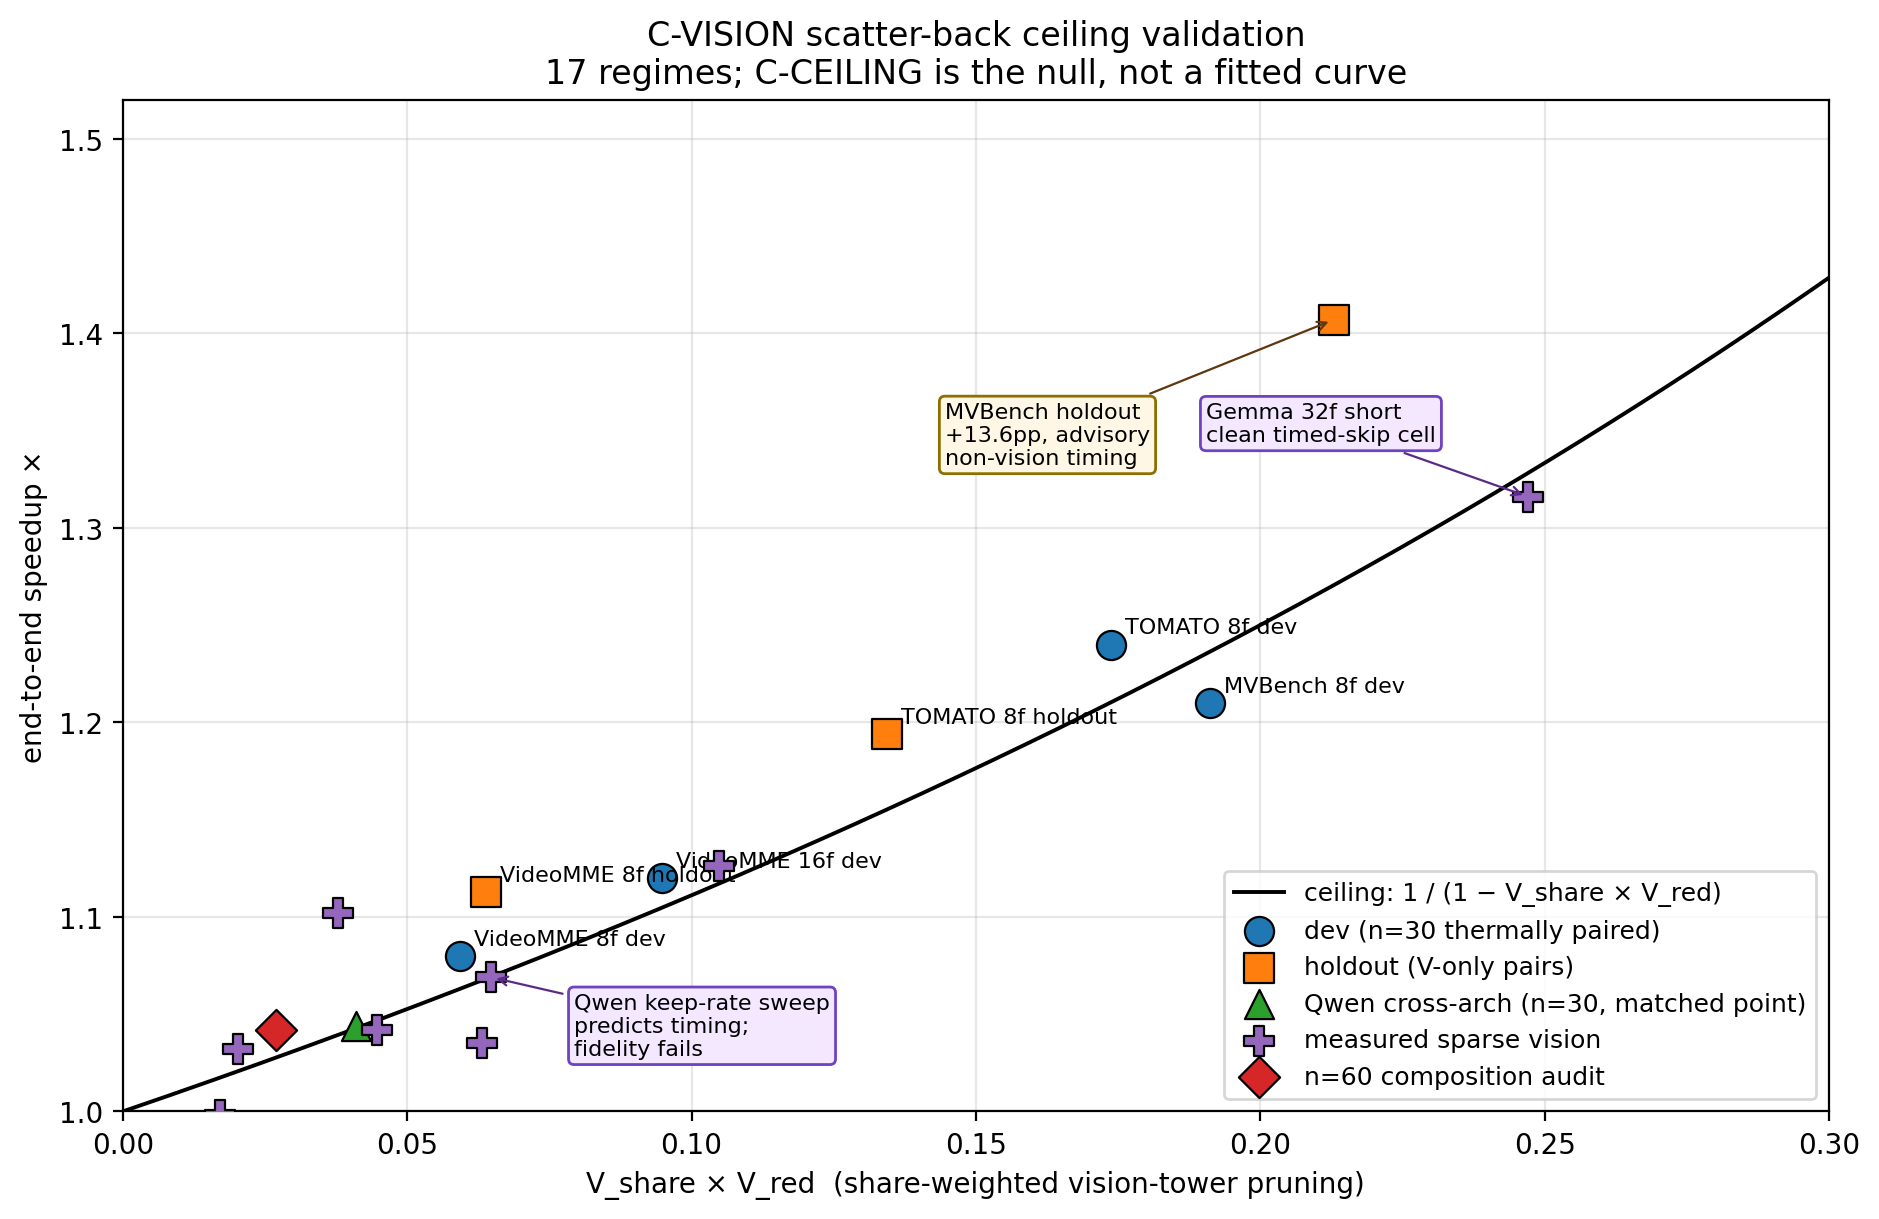
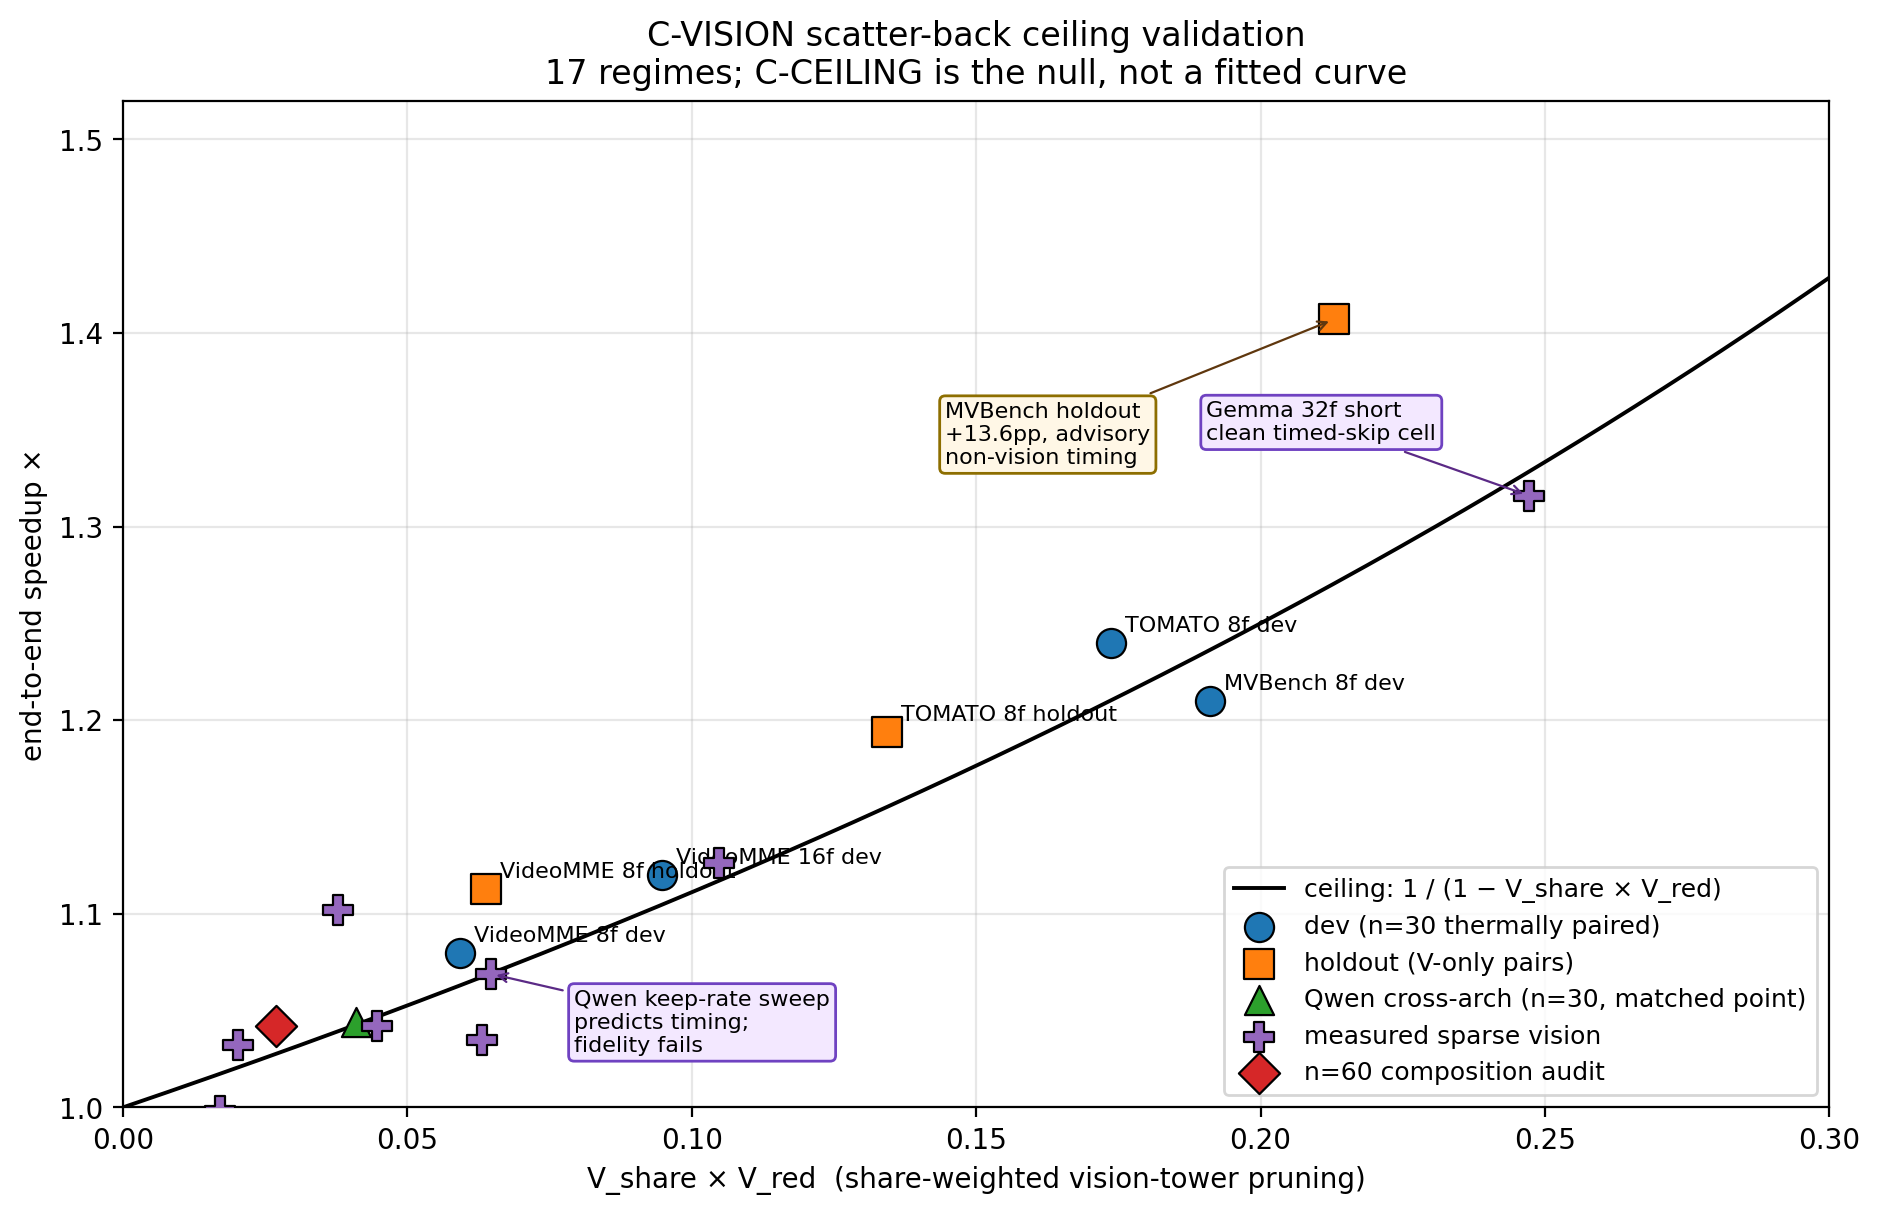
docs(paper): harden release traceability polish
Add a clean-tree guard before creating arXiv source bundles so release provenance cannot silently describe a dirty tracked source tree as clean. Tighten final manuscript and ledger wording around C-PERSIST denominators, parse-failure notation, C-STREAM evaluated-bundle status, and scale-out exactness provenance.

Regenerate the C-CEILING source data to point the Gemma 32f-short cell at the pair-summary artifact, update the follow-up economics caption to separate Qwen C-PERSIST from Gemma prefix snapshots, and refresh the dense-anchored findings note to use 6/133 = 4.51%.

Validation: built the paper with no Overfull boxes or hard LaTeX errors; ran rendered-PDF and source scans for stale release/process wording; ran scripts/preflight_ci.sh, py_compile on modified Python scripts, and git diff --check.

diff --git a/paper/arxiv/scripts/build.py b/paper/arxiv/scripts/build.py
@@ -20,6 +20,27 @@ def _run(cmd: list[str], cwd: Path | None = None) -> None:
     subprocess.run(cmd, cwd=cwd or MANUSCRIPT_ROOT, check=True)
 
 
+def _git_status_porcelain() -> str:
+    result = subprocess.run(
+        ["git", "status", "--porcelain"],
+        cwd=MANUSCRIPT_ROOT,
+        check=True,
+        capture_output=True,
+        text=True,
+    )
+    return result.stdout.strip()
+
+
+def _ensure_clean_for_bundle() -> None:
+    status = _git_status_porcelain()
+    if status:
+        raise SystemExit(
+            "Refusing to create a source bundle from a dirty working tree. "
+            "Commit or stash tracked changes, then rebuild the bundle from "
+            "the frozen source state."
+        )
+
+
 def _sync() -> None:
     _run([sys.executable, str(SYNC_SCRIPT)])
 
@@ -108,6 +129,8 @@ def main() -> int:
     args = parser.parse_args()
 
     _sync()
+    if args.bundle:
+        _ensure_clean_for_bundle()
     if not args.skip_pdf:
         _build_pdf()
     if args.bundle:

diff --git a/paper/arxiv/scripts/sync_sources.py b/paper/arxiv/scripts/sync_sources.py
@@ -887,17 +887,17 @@ def _render_c_persist_timeline_figure() -> None:
     ax.text(
         0.02,
         0.86,
-        "The visual tail is bought at Q2. Fixed K=1 buys it again at Q3; "
-        "adaptive Q3 mostly appends text.",
+        "The visual tail is bought at the first follow-up. Fixed K=1 buys it again; "
+        "adaptive reuse mostly appends text.",
         fontsize=7.6,
         color="#475569",
     )
 
     xs = {"q0": 0.12, "q2": 0.42, "q3": 0.72}
     for key, label in [
-        ("q0", "Q0/Q1 first query"),
-        ("q2", "Q2 repair"),
-        ("q3", "Q3 follow-up"),
+        ("q0", "First query"),
+        ("q2", "Follow-up 1 repair"),
+        ("q3", "Follow-up 2 reuse"),
     ]:
         ax.text(xs[key], 0.78, label, fontsize=8.0, weight="bold", ha="center", color="#334155")
 
@@ -2209,7 +2209,7 @@ def _write_headline_table(snapshot: dict) -> None:
             f"{gemma_sparse_short['observed_e2e']:.3f}$\\times$ & "
             f"choice agreement {gemma_sparse_short['choice_agreement'] * 100:.0f}\\%; "
             f"$\\Delta$acc {gemma_sparse_short['accuracy_delta']:+.3f}; "
-            "parse failures 0/0 & clean sparse-execution cell \\\\"
+            "dense/sparse parse failures 0/0 & clean sparse-execution cell \\\\"
         ),
         (
             "First-pass & Gemma MVBench 8f holdout & "
@@ -2254,7 +2254,7 @@ def _write_measured_sparse_execution_tables(snapshot: dict) -> None:
         r"\begin{tabularx}{\linewidth}{@{}l r r r r r r r X@{}}",
         r"\toprule",
         (
-            r"Frames / slice & \(n\) & \(\Delta\)acc & Agree & Parse fails & "
+            r"Frames / slice & \(n\) & \(\Delta\)acc & Agree & Dense/sparse parse fails & "
             r"\(V_{\mathrm{red}}\) & Observed & Residual & Ceiling / format verdict \\"
         ),
         r"\midrule",
@@ -2961,7 +2961,7 @@ def _write_scaleout_bundle_table() -> None:
         r"\begin{table}[H]",
         r"\centering",
         (
-            r"\caption{Checked scale-out artifact bundle. These rows make "
+            r"\caption{Evaluated scale-out bundle. These rows make "
             r"native-rate streaming state reuse more concrete, while "
             r"cache correctness, matched baselines, and native mechanism quality "
             r"remain open standardization gates.}"
@@ -3051,7 +3051,7 @@ def _write_scaleout_bundle_table() -> None:
             f"{snapshot['exactness_export']['accuracy_rows']:,} "
             f"logged rows; byte-identical raw-paired text on "
             f"{snapshot['exactness_export']['raw_rows']} rows & denominator-safe "
-            "artifact harmonization \\\\"
+            "reporting \\\\"
         ),
         r"\bottomrule",
         r"\end{tabularx}",
@@ -3084,9 +3084,8 @@ def _write_repo_provenance_table(primary: dict[str, str]) -> None:
         r"\begin{table}[H]",
         r"\centering",
         (
-            r"\caption{Repo provenance captured by the manuscript sync step. "
-            r"Regenerate from the final release tag for the frozen artifact "
-            r"bundle.}"
+            r"\caption{Repo provenance captured by the manuscript sync step "
+            r"for this built artifact.}"
         ),
         r"\label{tab:repo-provenance}",
         r"\begin{tabular}{lll}",

diff --git a/paper/arxiv/sections/appendix_a_source_traceability.tex b/paper/arxiv/sections/appendix_a_source_traceability.tex
@@ -13,8 +13,8 @@ snapshot.
 
 This appendix is where that distinction becomes audit-friendly. The repo
 provenance table below records the commit pins observed by the manuscript sync
-step. The final release should regenerate this table from the final release tag
-after the source tree and generated assets are synchronized. Within the main text, numbers are written so they can
+step. A frozen submission should regenerate this table from the released source
+state after the source tree and generated assets are synchronized. Within the main text, numbers are written so they can
 be traced back to one phase note and one artifact family. When a result is
 excluded or downgraded on provenance grounds, the paper says so explicitly. The
 best current examples are the supplementary MVBench higher-stability refinement, Gemma's
@@ -63,12 +63,11 @@ Native-rate streaming bundle & 26B cache-correctness, prefix snapshot, fixed-evi
 \end{tabularx}
 \end{table}
 
-This appendix is the release-facing traceability manifest. The durable claim
-ledgers remain \path{paper/claim-matrix.md},
-\path{docs/reproduction-status.md}, and \path{paper/publishability-status.md};
-the table above records the paper-facing artifact families, while the generated
-repo-provenance table below records the checkout used for this PDF. A frozen
-submission bundle should regenerate this appendix from the final release tag and
-then lock any remaining advisory rows to explicit artifact-status labels.
+This appendix is the traceability manifest. Durable claim ledgers live in the
+paper claim matrix, reproduction-status document, and publishability-status
+note. The table above records the artifact families used by the paper; the
+generated repo-provenance table below records the checkout used for this PDF.
+A frozen submission should regenerate this appendix from the released source
+state and lock advisory rows to explicit evidence labels.
 
 \input{generated/tables/repo_provenance.tex}

diff --git a/paper/arxiv/sections/07_results_cross_architecture.tex b/paper/arxiv/sections/07_results_cross_architecture.tex
@@ -40,8 +40,8 @@ boundary appears.
   }
 \caption{C-PERSIST tested follow-up-reuse envelope. The local result is not one
   persistent-KV curve but two different architectural stories: 7B stays inside
-  the current tested envelope through 16 frames / 6.5k prefill tokens, while 3B
-  trades exactness for a much wider pre-basin plateau through 36 frames /
+  the tested envelope through 16 frames / 6.5k prefill tokens, while 3B
+  trades paired fidelity for a much wider pre-basin plateau through 36 frames /
   14.5k prefill tokens before the basin opens.}
   \label{fig:c-persist-safe-budget}
 \end{figure}
@@ -65,10 +65,10 @@ observed pathological follow-up outputs on 62 repaired follow-ups, and
 because longer prefixes make the saved prefill work larger; \(K=1\) becomes
 more useful as the prefix gets deeper, not less. The long-bucket point is also
 important but weaker as an accuracy claim: it preserves a hard low-baseline
-cell exactly on the observed rows (7/21), so it is evidence for fidelity
+cell with 0/21 paired drift on the observed rows, so it is evidence for fidelity
 repair under a difficult regime, not for high long-bucket model quality.
 Paired drift is a reuse-preservation test, not a generosity discount for a weak
-baseline: preserving the same hard examples exactly still constrains the cache
+baseline: preserving the same hard examples under the paired-drift contract still constrains the cache
 policy even when the frozen model's cold long-video accuracy is poor.
 
 \input{generated/tables/c_persist_repair.tex}
@@ -95,7 +95,7 @@ the denominator is 0/62 and the corresponding rule-of-three bound is about
 4.8\%. At the session level the conservative count is 0/31 sessions with any
 paired drift, or a rule-of-three bound of about 9.7\%. Each tested session has
 two follow-up questions after the cold first query. The 32f short cell is the
-largest local efficiency point in the current tested envelope at
+largest local efficiency point in the tested envelope at
 35.92$\times$ same-class
 follow-up speedup (35.97$\times$ cold-all-query ratio), but the reason is not
 magic: the second follow-up inherits the repaired state instead of paying
@@ -430,7 +430,7 @@ reported only aggregate accuracy. In the composition root-cause decomposition,
 V-only Q0 pruning changes 6/10 choices and 6/10 correctness labels on the
 short scout even though the broader C-VISION operating point can look
 aggregate-neutral elsewhere. In the Gemma second-architecture routing check,
-MVBench preserves aggregate accuracy exactly (dense and cached both 6/30) but
+MVBench ties aggregate accuracy (dense and cached both 6/30) but
 changes 8/30 answer choices across four motion subgroups. In the unrepaired
 20f persistent-KV basin, 11/21 choices and 10/21 correctness labels change,
 with 13/21 pathological-like outputs concentrated on follow-ups.

diff --git a/paper/arxiv/sections/08_real_applications.tex b/paper/arxiv/sections/08_real_applications.tex
@@ -12,7 +12,7 @@ shows which mechanisms are plausible, which simple baselines are serious, and
 which cache paths are unsafe.
 
 Unlike sparse-sampled benchmark runs, the streaming lane tests cache lifetime:
-when to keep state, shift it, rebuild it, or declare it stale. The current
+when to keep state, shift it, rebuild it, or declare it stale. The tested
 scale-out stack exercises motion-vector and residual side-channel staleness
 signals, sectional cache shifts, and event/inflection triggers. Those
 mechanisms are why the lane is not merely an application demo. Its claims stay
@@ -68,23 +68,23 @@ desktop-agent scroll/pan traces remain future gates.
 The streaming baselines cut in the other direction. On 22 screen/UI events,
 low-FPS dense uses four uniformly spaced frames and matches the fresh oracle on
 17/22 events, beating screenshot polling with one query-time frame (13/22),
-recency last-\(K\) with four recent frames (12/22), and the current
+recency last-\(K\) with four recent frames (12/22), and the tested
 event-window proxy with four event-window frames (13/22). That does not kill
 C-STREAM; it clarifies the denominator. Fixed-evidence quality is not where the
-current proxy wins. The fps view above shows why the native-rate denominator is
-still worth measuring, but the checked bundle has not yet earned the stronger
+tested proxy wins. The fps view above shows why the native-rate denominator is
+still worth measuring, but the evaluated bundle has not yet earned the stronger
 streaming claim. Advisory predecessor sectional-scroll instrumentation, not
 part of the checked bundle table, points in the same direction qualitatively:
 over the same recording duration, event-driven state reuse can perceive at
 decode cadence with far fewer vision fires than polling. Because those raw rows
-are not part of the checked bundle, we do not use their exact multiplier as
+are not part of the evaluated bundle, we do not use their exact multiplier as
 C-STREAM evidence. That axis still needs checked native mechanism-quality
 validation before it becomes a headline.
 
 The recovery path is therefore specific, not rhetorical. C-STREAM needs a
 policy that wins on the axis native streams actually own: higher
 perception-rate at the same vision budget while preserving event-window
-answers. The current proxy failed because its event windows were not enough to
+answers. The tested proxy failed because its event windows were not enough to
 beat a simple four-frame dense baseline; the default cache path failed because
 mixed sliding-window/full-attention cache topology made cross-turn state
 semantically unsafe; and post-vision-tower pruning failed as systems evidence

diff --git a/paper/arxiv/sections/01_abstract.tex b/paper/arxiv/sections/01_abstract.tex
@@ -11,8 +11,9 @@ frozen Qwen2.5-VL-7B-Instruct-4bit, adaptive same-video follow-up reuse repairs
 with no observed paired choice or correctness drift on 93 paired queries,
 including 62 repaired follow-ups. Same-class follow-up speedup is
 14.90--35.92$\times$ when cold follow-ups are compared with repaired
-follow-ups; the cold-all-query versus repaired-follow-up ratio is
-15.28--35.97$\times$. The mechanism is concrete: the second follow-up inherits
+follow-ups within matched frame/duration cells; the cold-all-query versus
+repaired-follow-up ratio is 15.28--35.97$\times$ when the cold baseline's
+per-query cost is compared with repaired follow-up latency. The mechanism is concrete: the second follow-up inherits
 the cache repaired after the first follow-up, so it appends mostly the new
 question instead of repairing the newest-frame tail again. This is not
 first-query speedup: the first query still pays full freight, and the tested
@@ -75,12 +76,12 @@ not itself a measured sparse backend.
 
 Streaming state reuse (candidate C-STREAM) is the native-rate version of the
 same question, but it is not yet a headline claim. A checked 26B-class
-scale-out artifact bundle now makes the lane more concrete and more bounded:
+scale-out evaluation makes the lane more concrete and more bounded:
 default mixed sliding-window/full-attention
 cache reuse fails a cross-turn correctness smoke, a topology-aware prefix
 snapshot gives positive small-\(N\) follow-up rows, fixed-evidence streaming
-baselines favor low-FPS dense over the current event-window proxy, and the
-large exactness export separates zero accuracy delta on 1,937 rows from
+baselines favor low-FPS dense over the tested event-window proxy, and the
+large exactness audit separates zero accuracy delta on 1,937 rows from
 byte-identical raw-paired text on 513 rows.
 
 The broader implication is not that pixel differencing is the final interface.

diff --git a/scripts/build_c_persist_setup_inclusive.py b/scripts/build_c_persist_setup_inclusive.py
@@ -1,5 +1,5 @@
 #!/usr/bin/env python3
-"""Setup-inclusive C-PERSIST economics generator.
+"""Setup-inclusive same-video follow-up economics generator.
 
 Reads existing phase 1.55A* summary.json artifacts that carry per-session
 timing (session_first_query, session_follow_up, baseline) and emits:
@@ -236,14 +236,16 @@ def _emit_table(snapshot: dict[str, Any]) -> str:
         r"\begin{table}[H]",
         r"\centering",
         (
-            r"\caption{Setup-inclusive C-PERSIST session economics. "
+            r"\caption{Setup-inclusive same-video follow-up economics. "
             r"\emph{Warm} is the mean per-follow-up multiplier on the same "
             r"timing basis as the session columns; headline prose reports "
             r"median follow-up speedups where stated. \emph{Q=k} is the "
             r"actual session-level speedup when a session has \(k\) total "
             r"queries on the same video. Qwen rows use the measured cold "
-            r"first query plus \(Q-1\) follow-ups; Gemma prefix-snapshot rows "
-            r"use the measured prefix warm-up plus \(Q\) follow-up queries. "
+            r"first query plus \(Q-1\) C-PERSIST follow-ups; Gemma "
+            r"prefix-snapshot rows are scale-out prefix-snapshot economics "
+            r"for denominator comparison and use the measured prefix warm-up "
+            r"plus \(Q\) follow-up queries. "
             r"At \(Q=1\) the cold first-query cost dominates and the "
             r"speedup approaches~1; at large \(Q\) it asymptotes to the "
             r"mean per-follow-up multiplier. \(\Delta\)acc is the paired "

diff --git a/paper/arxiv/sections/02_introduction.tex b/paper/arxiv/sections/02_introduction.tex
@@ -72,11 +72,11 @@ The scale-out streaming lane is part of the same science story, but it has a
 different protocol and is not yet a main claim. The intended end-state is a
 first-class \emph{streaming state reuse} evaluation with the same claim axes,
 artifact format, paired gates, cache-correctness checks, and baselines as
-the local runs. A checked 26B-class scale-out bundle now exists, and it
+the local runs. A checked 26B-class scale-out bundle
 sharpens the boundary rather than simply adding wins: the default cross-turn cache path is unsafe,
 topology-aware prefix-snapshot rows are positive at small \(N\),
 and fixed-evidence streaming baselines show that low-FPS dense is a serious
-competitor. Candidate C-STREAM is therefore a checked but mixed artifact bundle
+competitor. Candidate C-STREAM is therefore a checked but mixed evidence bundle
 and a set of gates, not a multiplier to inherit. This caution is also earned by our Qwen
 session-composition experiments: they reproduce speedup without preserving the
 full fidelity contract, and the tested sweeps rule out the prompt-cache
@@ -103,7 +103,7 @@ is mechanism-validation evidence rather than a sparse wall-clock claim.}
 Regime & Reused work & Denominator / evidence class & Evidence / boundary \\
 After-ingest follow-up & prompt / key--value (KV) prefix for later questions on the same video & follow-up latency and paired drift; first query still pays full freight & raw 16f reuse reaches 91.1$\times$; adaptive repair spans short/medium/long and 32f-short with 0/93 drift at 14.90--35.92$\times$; many-turn stress reaches 50 turns on repeated questions; dense-answer-anchored prompt variation exposes the conservative/aggressive boundary \\
 Fresh-video first pass & vision-tower work inside the first query & first-query wall-clock; local clean/advisory cells plus measured sparse-execution envelopes & VideoMME clean 1.113$\times$; MVBench/TOMATO advisory; measured sparse vision: Gemma 32f short 1.316$\times$ with 0/20 drift, Qwen conservative boundary 1.032$\times$ \\
-Candidate C-STREAM & repeated visual state in a native-rate or live pipeline & checked mixed artifact bundle; separate protocol & default 26B cache path blocked; prefix-snapshot rows positive but small-\(N\); fixed-evidence stream baselines favor low-FPS dense over the current proxy \\
+Candidate C-STREAM & repeated visual state in a native-rate or live pipeline & checked mixed evidence bundle; separate protocol & default 26B cache path blocked; prefix-snapshot rows positive but small-\(N\); fixed-evidence stream baselines favor low-FPS dense over the tested proxy \\
 \bottomrule
 \end{tabularx}
 \end{table}

diff --git a/paper/arxiv/sections/04_method.tex b/paper/arxiv/sections/04_method.tex
@@ -68,8 +68,8 @@ spatial grid so cached features can be substituted back into the dense path at
 the same geometry the benchmark runner already understands.
 
 The paper's default sparse-QA routing path still uses pixel differences because
-that is the audited semantic baseline. A separate codec-native planner bridge
-now exists locally: continuous H.264-derived scores can substitute for the
+that is the audited semantic baseline. A separate local codec-native planner
+bridge exists: continuous H.264-derived scores can substitute for the
 pixel-diff planner signal on VideoMME dev all-duration \(n=30\) without
 changing dense answer choices, and calibration-mode/source ablations are
 neutral on the local slices. We keep this as semantic planner-substitution

diff --git a/paper/arxiv/sections/09_limitations_reproducibility.tex b/paper/arxiv/sections/09_limitations_reproducibility.tex
@@ -16,7 +16,7 @@ cell is ceiling-matched, which is useful evidence for the arithmetic and a
 null on super-ceiling composition.
 
 The measured sparse-execution story is now more concrete but still bounded.
-Gemma supplies the cleanest current operating point: 32f short skips timed
+Gemma supplies the cleanest reported operating point: 32f short skips timed
 vision-tower work at 1.316$\times$ first-query speedup with no paired drift and
 no parse failures on 20 items. The full Gemma 8/16/32f sweep has zero paired
 answer drift, but dense and sparse arms share parse failures in some cells and
@@ -100,7 +100,7 @@ large, not because it already clears the full systems validation bar. The checke
 scale-out bundle is now real and useful, but mixed: default 26B cross-turn
 cache reuse is unsafe, a topology-aware prefix snapshot is positive only at
 small \(N\), fixed-evidence stream baselines favor low-FPS dense over the
-current event-window proxy, and post-vision-tower hard pruning shows that
+tested event-window proxy, and post-vision-tower hard pruning shows that
 policy overhead can erase any expected win if vision work was not actually
 skipped.
 

diff --git a/paper/arxiv/sections/06_results_qwen_routing.tex b/paper/arxiv/sections/06_results_qwen_routing.tex
@@ -50,7 +50,7 @@ where one pattern is always reliable and another is simply unusable. A Gemma
 Gemma preserves aggregate accuracy
 and passes the preregistered strict-agreement gate: dense and cached accuracy
 are both 8/30, with 28/30 answer agreement. On MVBench motion, aggregate
-accuracy is still preserved exactly (both dense and cached are 6/30), but
+accuracy still ties (both dense and cached are 6/30), but
 strict agreement falls to 22/30 and misses the 0.85 gate. The eight MVBench
 mismatches spread across action localization, fine-grained action, object
 interaction, and moving direction rather than one brittle subgroup.

diff --git a/paper/arxiv/sections/10_conclusion.tex b/paper/arxiv/sections/10_conclusion.tex
@@ -30,7 +30,7 @@ C-STREAM remains the right scale-out target: perception-rate streaming state
 reuse under a native-rate protocol. The checked 26B-class scale-out bundle is now mixed
 evidence rather than pending evidence: default cache reuse is unsafe,
 prefix-snapshot follow-up rows are positive but small-\(N\), fixed-evidence
-baselines favor low-FPS dense over the current event-window proxy, and
+baselines favor low-FPS dense over the tested event-window proxy, and
 exactness claims must keep the 1,937 zero-accuracy-delta and 513 byte-identical
 denominators separate.
 